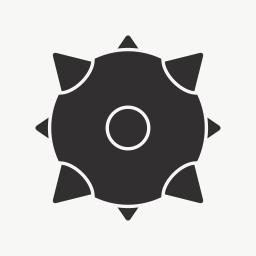
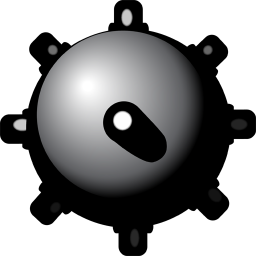
Добавлена возможность проиграть только при потери всех жизней
Добавлена возможность победить, если на всех ячейках с бомбами стоят флажки

diff --git a/src/sweeper/GameField.java b/src/sweeper/GameField.java
@@ -4,13 +4,15 @@ public class GameField {
     private Cell bombCell;
     private Cell closedCell;
     private int totalBombs;
-    private int totalFlags;
+    private int health;
+    private int placedFlags;
     private int closedCellsCount;
     private GameState gameState;
 
-    GameField (int totalBombs){
+
+    GameField (int totalBombs, int health){
         this.totalBombs = totalBombs;
-        totalFlags = totalBombs;
+        this.health = health;
         fixBombsCount();
     }
 
@@ -70,8 +72,20 @@ public class GameField {
 
         switch (closedCell.getCellState(cellPos)){
 
-            case FLAGED : closedCell.setCellState(cellPos, CellState.CLOSED);
-            case CLOSED : closedCell.setCellState(cellPos, CellState.FLAGED);
+            case FLAGED : {
+                placedFlags--;
+                closedCell.setCellState(cellPos, CellState.CLOSED);
+                System.out.println(placedFlags);
+                return;
+            }
+            case CLOSED : {
+                if(placedFlags < totalBombs){
+                    placedFlags++;
+                    closedCell.setCellState(cellPos, CellState.FLAGED);
+                    System.out.println(placedFlags);
+                }
+                return;
+            }
         }
     }
 
@@ -79,7 +93,7 @@ public class GameField {
 
         switch (getClosedCellState(cellPos)){
             case OPENED : openClosedCellsAroundNumber(cellPos); return;
-            case FLAGED : return;
+            //case FLAGED : return;
             case CLOSED : switch (getBombCellState(cellPos)){
                 case ZERO : openCellsAround(cellPos); return;
                 case BOMB : openBombs(cellPos); return;
@@ -96,6 +110,10 @@ public class GameField {
         }
     }
 
+    public int getPlacedFlagsCount(){
+        return placedFlags;
+    }
+
     public int getTotalBombs() {
 
         return totalBombs;
@@ -108,19 +126,27 @@ public class GameField {
 
     private void openBombs(CellPosition cellPos){
 
-        gameState = GameState.BOMBED;
-        closedCell.setCellState(cellPos, CellState.BOMBED);
-        for (CellPosition otherPos : Coord.getAllCoords()){
-            if(getBombCellState(otherPos) == CellState.BOMB){
-                // открыть клетку с закрытой бомбой
-                if(closedCell.getCellState(otherPos) == CellState.CLOSED){
-                    closedCell.setCellState(otherPos, CellState.OPENED);
+        health--;
+        if (health > 0){
+            gameState = GameState.BOMBED;
+            closedCell.setCellState(cellPos, CellState.BOMBED);
+            System.out.println(health);
+        }
+        else {
+            gameState = GameState.LOSE;
+            closedCell.setCellState(cellPos, CellState.BOMBED);
+            for (CellPosition otherPos : Coord.getAllCoords()){
+                if(getBombCellState(otherPos) == CellState.BOMB){
+                    // открыть клетку с закрытой бомбой
+                    if(closedCell.getCellState(otherPos) == CellState.CLOSED){
+                        closedCell.setCellState(otherPos, CellState.OPENED);
+                    }
                 }
-            }
-            else {
-                // поставить нету бомбы на ячейке с флажком
-                if (closedCell.getCellState(otherPos) == CellState.FLAGED){
-                    closedCell.setCellState(otherPos, CellState.NOBOMB);
+                else {
+                    // поставить нету бомбы на ячейке с флажком
+                    if (closedCell.getCellState(otherPos) == CellState.FLAGED){
+                        closedCell.setCellState(otherPos, CellState.NOBOMB);
+                    }
                 }
             }
         }

diff --git a/src/MineSweeper.java b/src/MineSweeper.java
@@ -2,7 +2,6 @@ import javax.swing.*;
 import java.awt.*;
 import java.awt.event.MouseAdapter;
 import java.awt.event.MouseEvent;
-
 import sweeper.*;
 
 public class MineSweeper extends JFrame {
@@ -13,6 +12,7 @@ public class MineSweeper extends JFrame {
     private final int COLS = 9; // Столбцы
     private final int ROWS = 9; // Строки
     private final int BOMBS = 10;
+    private final int HEALTH = 3;
     private final int IMG_SIZE = 50;
 
     public static void main(String[] args) {
@@ -22,7 +22,7 @@ public class MineSweeper extends JFrame {
 
     //Всё необходимое для запуска окна
     private MineSweeper(){
-        game = new Game(COLS, ROWS, BOMBS);
+        game = new Game(COLS, ROWS, BOMBS, HEALTH);
         game.startGame();
         setImages();
         initPanel(); //Инициализация панели
@@ -33,10 +33,11 @@ public class MineSweeper extends JFrame {
 
         setDefaultCloseOperation(WindowConstants.EXIT_ON_CLOSE);
         setTitle("MineSweeper");
-        setLocationRelativeTo(null);
+        setIconImage(getImage("icon"));
         setResizable(false);
         setVisible(true);
         pack();
+        setLocationRelativeTo(null);
     }
 
     private void initPanel(){
@@ -63,9 +64,13 @@ public class MineSweeper extends JFrame {
                     game.pressedRightButton(cellPos);
                 }
                 panel.repaint();
+
+                if(game.getGameState() != GameState.PLAY && game.getGameState() != GameState.BOMBED){
+                    JOptionPane.showMessageDialog(null, game.isWin() ? "Победа" : "Поражение");
+                    System.exit(0);
+                }
             }
         });
-
 
         panel.setPreferredSize(new Dimension(Coord.getSize().x * IMG_SIZE,Coord.getSize().y * IMG_SIZE));
         add(panel);

diff --git a/src/sweeper/Game.java b/src/sweeper/Game.java
@@ -10,9 +10,9 @@ public class Game {
         return gameState;
     }
 
-    public Game (int cols, int rows, int bombs){
+    public Game (int cols, int rows, int bombs, int health){
         Coord.setSize(new CellPosition(cols, rows));
-        gameField = new GameField(bombs);
+        gameField = new GameField(bombs, health);
     }
 
     public void startGame(){
@@ -36,19 +36,20 @@ public class Game {
         if (gameOver()) return;
         gameField.openCell(cellPos);
         gameState = gameField.getGameState();
-        checkWinner();
+
     }
 
     public void pressedRightButton(CellPosition cellPos) {
 
         if (gameOver()) return;
         gameField.setFlagToCell(cellPos);
+        checkWinner();
     }
 
     private void checkWinner(){
 
         if(gameState == GameState.PLAY){
-            if(gameField.getClosedCellsCount() == gameField.getTotalBombs()){
+            if(gameField.getClosedCellsCount() == gameField.getTotalBombs() && gameField.getTotalBombs() == gameField.getPlacedFlagsCount()){
                 gameState = GameState.WIN;
                 System.out.print("Победа!");
             }
@@ -58,11 +59,14 @@ public class Game {
         }
     }
     private boolean gameOver(){
-        if (gameState == GameState.PLAY){
+        if (gameState == GameState.PLAY || gameState == GameState.BOMBED){
             return false;
         }
         startGame();
         return true;
+    }
 
+    public boolean isWin(){
+        return gameState == GameState.WIN;
     }
 }

diff --git a/src/sweeper/GameState.java b/src/sweeper/GameState.java
@@ -4,5 +4,6 @@ public enum GameState {
 
     PLAY,
     BOMBED,
+    LOSE,
     WIN;
 }
